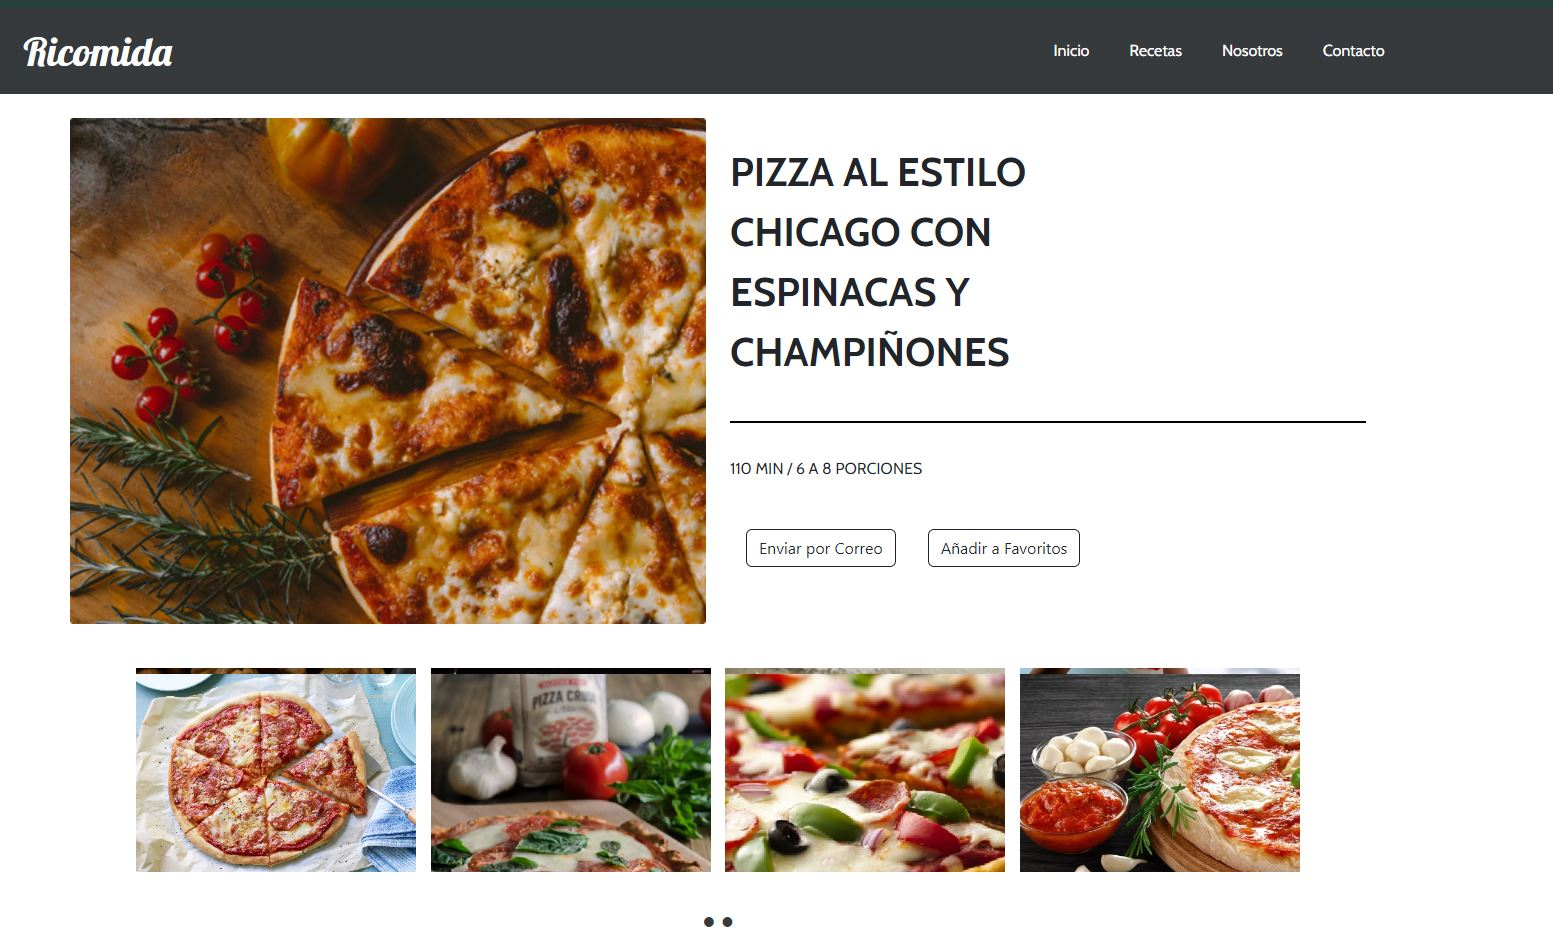
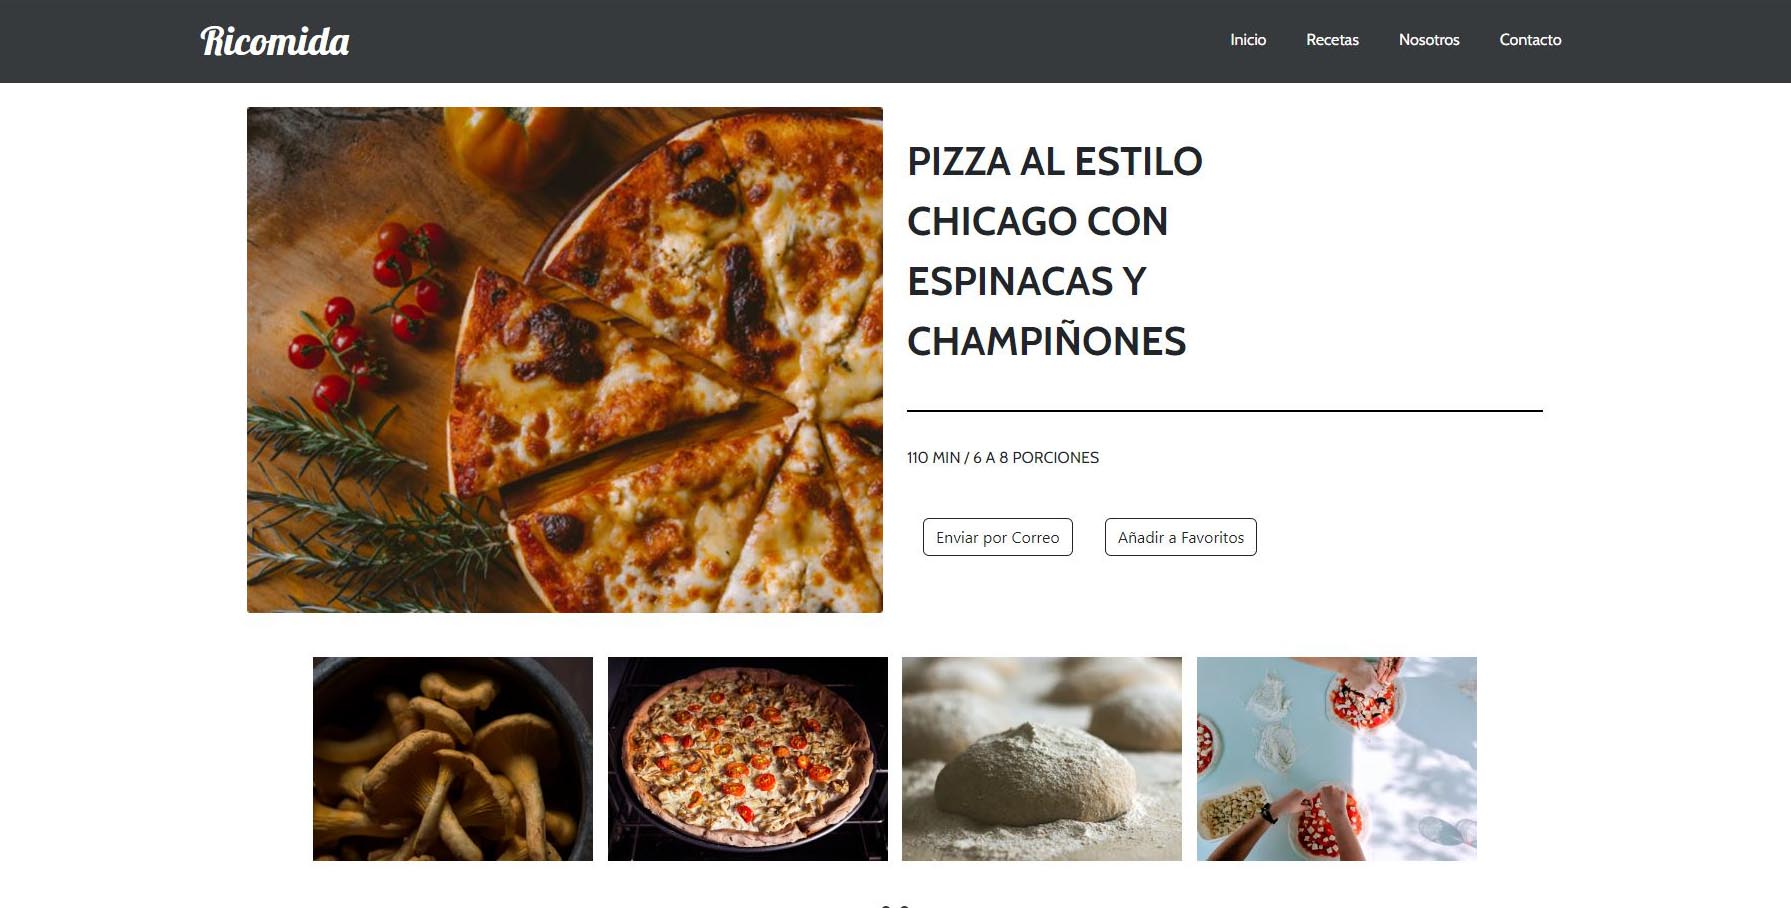
2do commit

diff --git a/app/assets/stylesheets/Styles.css b/app/assets/stylesheets/Styles.css
@@ -9,5 +9,11 @@
 }
 
 .rod {
-  width: 150px;
+  width: 100%;
+}
+
+.boton {
+  background-color: rgb(65, 228, 141);
+  color: white;
+  
 }
